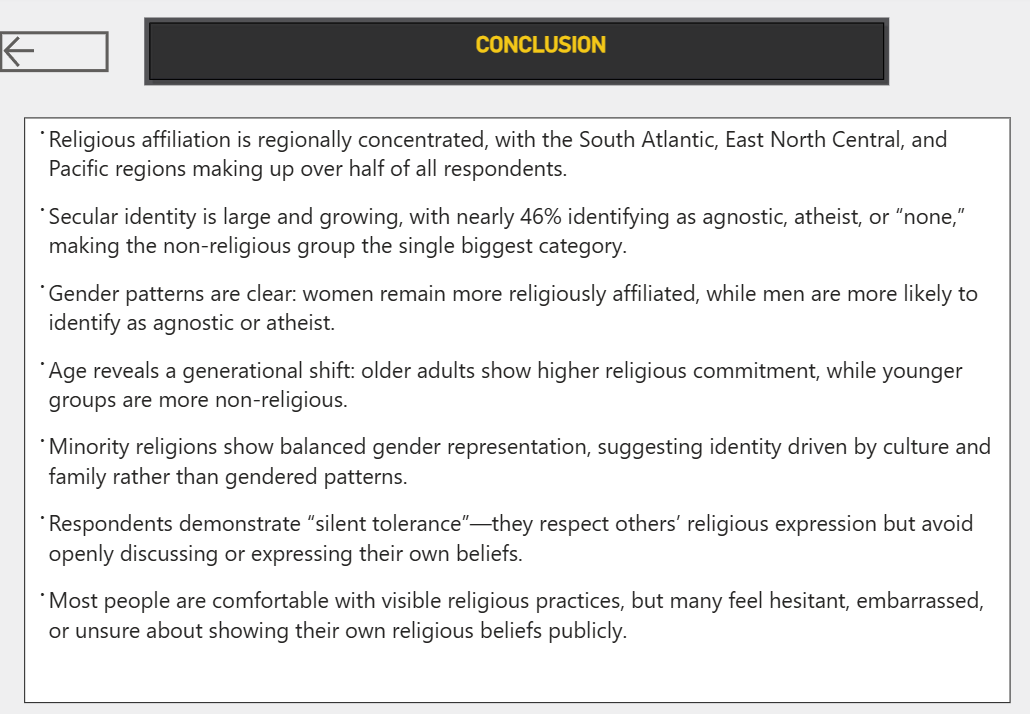
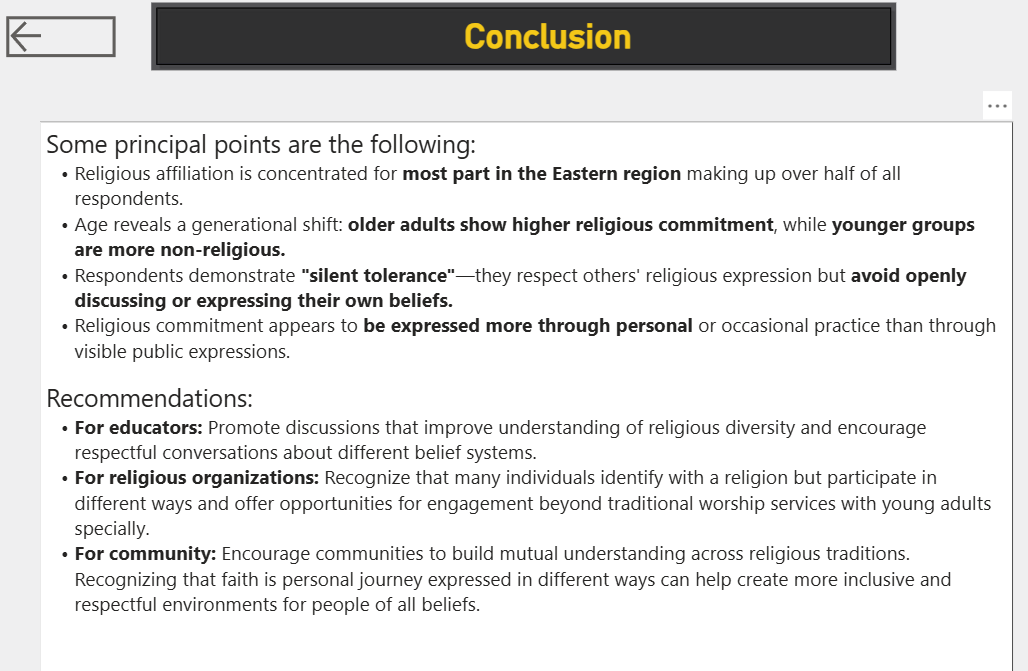
ga

diff --git a/docs/project/PowerBI/religion_survey/religion.html b/docs/project/PowerBI/religion_survey/religion.html
@@ -299,10 +299,11 @@ ul.task-list li input[type="checkbox"] {
     <h2 id="toc-title">On this page</h2>
    
   <ul>
-  <li><a href="#data-connections" id="toc-data-connections" class="nav-link active" data-scroll-target="#data-connections">Data Connections</a></li>
-  <li><a href="#dashboard" id="toc-dashboard" class="nav-link" data-scroll-target="#dashboard">Dashboard</a></li>
-  <li><a href="#best-insight---age-vs-faith" id="toc-best-insight---age-vs-faith" class="nav-link" data-scroll-target="#best-insight---age-vs-faith">Best insight - Age VS Faith</a></li>
-  <li><a href="#conclusion" id="toc-conclusion" class="nav-link" data-scroll-target="#conclusion">Conclusion</a></li>
+  <li><a href="#problem" id="toc-problem" class="nav-link active" data-scroll-target="#problem">Problem</a></li>
+  <li><a href="#solution" id="toc-solution" class="nav-link" data-scroll-target="#solution">Solution</a></li>
+  <li><a href="#outcome" id="toc-outcome" class="nav-link" data-scroll-target="#outcome">Outcome</a></li>
+  <li><a href="#skills-demostrated" id="toc-skills-demostrated" class="nav-link" data-scroll-target="#skills-demostrated">Skills Demostrated</a></li>
+  <li><a href="#interactive-dashboard" id="toc-interactive-dashboard" class="nav-link" data-scroll-target="#interactive-dashboard">Interactive Dashboard</a></li>
   </ul>
 </nav>
     </div>
@@ -341,23 +342,62 @@ ul.task-list li input[type="checkbox"] {
 </header>
 
 
-<section id="data-connections" class="level3">
-<h3 class="anchored" data-anchor-id="data-connections">Data Connections</h3>
+<section id="problem" class="level3">
+<h3 class="anchored" data-anchor-id="problem">Problem</h3>
+<p>Religion became an important part of life that people quite often believe it can influence in somebody’s identify. This analysis is to understand how demographic characteristics, religious affiliation, tolerance, and religious commitment interact within a diverse population.</p>
+</section>
+<section id="solution" class="level3">
+<h3 class="anchored" data-anchor-id="solution">Solution</h3>
+<p>Developed a five-page interactive Power BI dashboard using DAX, data modeling, and survey analytics to transform more than 1,000 survey responses into a intuitive decision tool.</p>
+</section>
+<section id="outcome" class="level3">
+<h3 class="anchored" data-anchor-id="outcome">Outcome</h3>
+<p>This dashboard enables educators, religious organizations, and community to better understand religious diversity withing a population. By transforming, survey data into actionable insights, the project supports decision-making and encourages initiatives that promote cultural awareness, and respectful engagement across different belief systems.</p>
+</section>
+<section id="skills-demostrated" class="level3">
+<h3 class="anchored" data-anchor-id="skills-demostrated">Skills Demostrated</h3>
+<ul>
+<li>DAX</li>
+<li>Data Modeling</li>
+<li>Power Query</li>
+<li>Interactive Dashboard Design</li>
+<li>Exploration Data Analysis (EDA)</li>
+<li>Behavioral Analysis</li>
+<li>Demographic Analysis</li>
+<li>Category Comparison and Analysis</li>
+<li>Likert Scale Analysis</li>
+<li>Executive Reporting</li>
+<li>Data driven reporting</li>
+</ul>
+</section>
+<section id="interactive-dashboard" class="level3">
+<h3 class="anchored" data-anchor-id="interactive-dashboard">Interactive Dashboard</h3>
+<section id="data-connections-and-cleaning" class="level4">
+<h4 class="anchored" data-anchor-id="data-connections-and-cleaning">Data Connections and Cleaning</h4>
 <p><img src="connections.png" class="img-fluid"></p>
 </section>
-<section id="dashboard" class="level3">
-<h3 class="anchored" data-anchor-id="dashboard">Dashboard</h3>
+<section id="demography" class="level4">
+<h4 class="anchored" data-anchor-id="demography">Demography</h4>
 <p><img src="dashboard.png" class="img-fluid"></p>
 </section>
-<section id="best-insight---age-vs-faith" class="level3">
-<h3 class="anchored" data-anchor-id="best-insight---age-vs-faith">Best insight - Age VS Faith</h3>
+<section id="gender-age" class="level4">
+<h4 class="anchored" data-anchor-id="gender-age">Gender &amp; Age</h4>
 <p><img src="gender.png" class="img-fluid"></p>
 </section>
-<section id="conclusion" class="level3">
-<h3 class="anchored" data-anchor-id="conclusion">Conclusion</h3>
+<section id="tolerance" class="level4">
+<h4 class="anchored" data-anchor-id="tolerance">Tolerance</h4>
+<p><img src="tolerance.png" class="img-fluid"></p>
+</section>
+<section id="commitment" class="level4">
+<h4 class="anchored" data-anchor-id="commitment">Commitment</h4>
+<p><img src="commitment.png" class="img-fluid"></p>
+</section>
+<section id="conclusion" class="level4">
+<h4 class="anchored" data-anchor-id="conclusion">Conclusion</h4>
 <p><img src="conclusion.png" class="img-fluid"></p>
 
 
+</section>
 </section>
 
 <a onclick="window.scrollTo(0, 0); return false;" role="button" id="quarto-back-to-top"><i class="bi bi-arrow-up"></i> Back to top</a></main> <!-- /main -->
